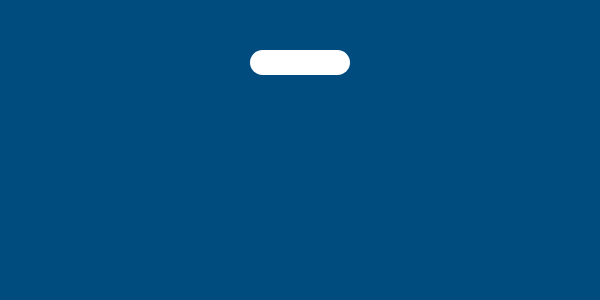
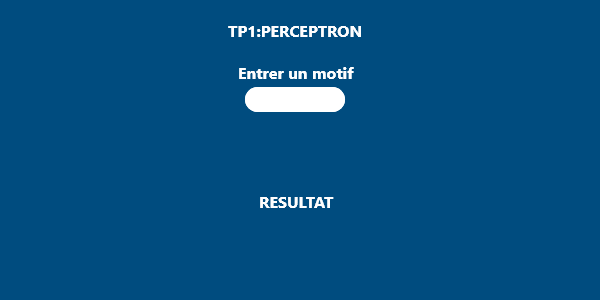
latest

Changed region(s): [[0.39, 0.15, 0.6, 0.39], [0.36, 0.09, 0.6, 0.12], [0.42, 0.66, 0.57, 0.69]]

diff --git a/SRC/Programme.py b/SRC/Programme.py
@@ -1,6 +1,6 @@
 from pathlib import Path
-from tkinter import Label, Scrollbar, StringVar,Tk,Canvas,Text,Button,PhotoImage, Toplevel,ttk,messagebox,Listbox
-from tkinter.constants import BOTH, DISABLED,END,INSERT, LEFT,NORMAL, RIGHT,WORD
+from tkinter import Label, StringVar,Tk,Canvas,Text,Button,PhotoImage
+from tkinter.constants import END,WORD
 from Perceptron import Neurone
 
 #chemin d'accès aux assets
@@ -27,30 +27,31 @@ window.config(cursor="dot")
 result=StringVar()
 result.set("------")
 
-perceptron=Neurone(3,[1,-1,-1,2])
+perceptron=Neurone(3,[1,-1,-1,2])#notre perceptron
 
 
 def analyser():
+    ok=False
     motif=[]
     motif_str=(entry.get(0.0,END))
-    for i in range(0,4):
-        try:
+    try:
+        for i in range(0,4):
             motif.append(int(motif_str[i]))
-        except:
-            result.set('pour eviter le crash en cas de caractere')
-    d=0
-    if(motif==[1,0,0,1]):
-        d=1
-    print(d)
-    if(perceptron.apprendre(motif,d)):
-        result.set('J\'ai eu: '+str(d)+' et vous attendez: '+str(d)+'\n alors j\'ai eu juste' )
-    else:
-        result.set('je me suis trompé')
-        
-    
-
-
-
+        if(len(motif_str)>5):
+            raise BaseException
+        ok=True
+    except:
+        result.set('Entrer un bon motif')
+        ok=False
+    if ok:
+        d=0
+        if(motif==[1,0,0,1]):
+            d=1
+        if(perceptron.apprendre(motif,d)):
+            result.set('J\'ai eu: '+str(d)+' et vous attendez: '+str(d)+'\n alors j\'ai eu juste' )
+        else:
+            result.set('je me suis trompé')
+            
 #arrière plan
 canvas = Canvas(
     window,
@@ -71,17 +72,6 @@ bg = canvas.create_image(
     image=bg_image
     )
 
-label=Label(
-    canvas,
-    text="Entrez un motif (seuls les 04 premiers caracteres sont pris en compte)",
-    fg="white",
-    bg="#004c7f",
-    font=('sergio',13,'bold')
-)
-label.place(
-        x=20,
-        y=20
-)
 
 entry = Text(
     canvas,
@@ -94,8 +84,8 @@ entry = Text(
 
 )
 entry.place(
-    x=255,
-    y=53,
+    x=250,
+    y=90,
     width=90,
     height=20
 )
@@ -113,22 +103,10 @@ button_1 = Button(
     bg="#004C7F"
 )
 button_1.place(
-    x=266,
-    y=100,
+    x=260,
+    y=130,
     width=69,
     height=26
-)
-
-resultat_label=Label(
-    canvas,
-    text="Resultat",
-    fg="white",
-    bg="#004c7f",
-    font=('sergio',13,'bold')
-)
-resultat_label.place(
-        x=265,
-        y=165
 )
 
 resultat=Label(
@@ -140,7 +118,7 @@ resultat=Label(
 )
 resultat.place(
         x=150,
-        y=200,
+        y=220,
         width=300
 )
 

diff --git a/SRC/Perceptron.py b/SRC/Perceptron.py
@@ -32,8 +32,7 @@ class Neurone:
         for i in range(0,len(x)): 
             self.w[i]=self.w[i]+(d-z)*x[i]
         self.w0=self.w0-(d-z)
-        print(x,'|',z,'|',d,'|',self.w,'|',self.w0,'\n')
-        print(success)
+        print(x,'|',z,'|',d,'|',self.w,'|',self.w0,'\n') #juste pour visualiser les resultats en console
         return success 
  
 #un ptit main pour l'entrainement
